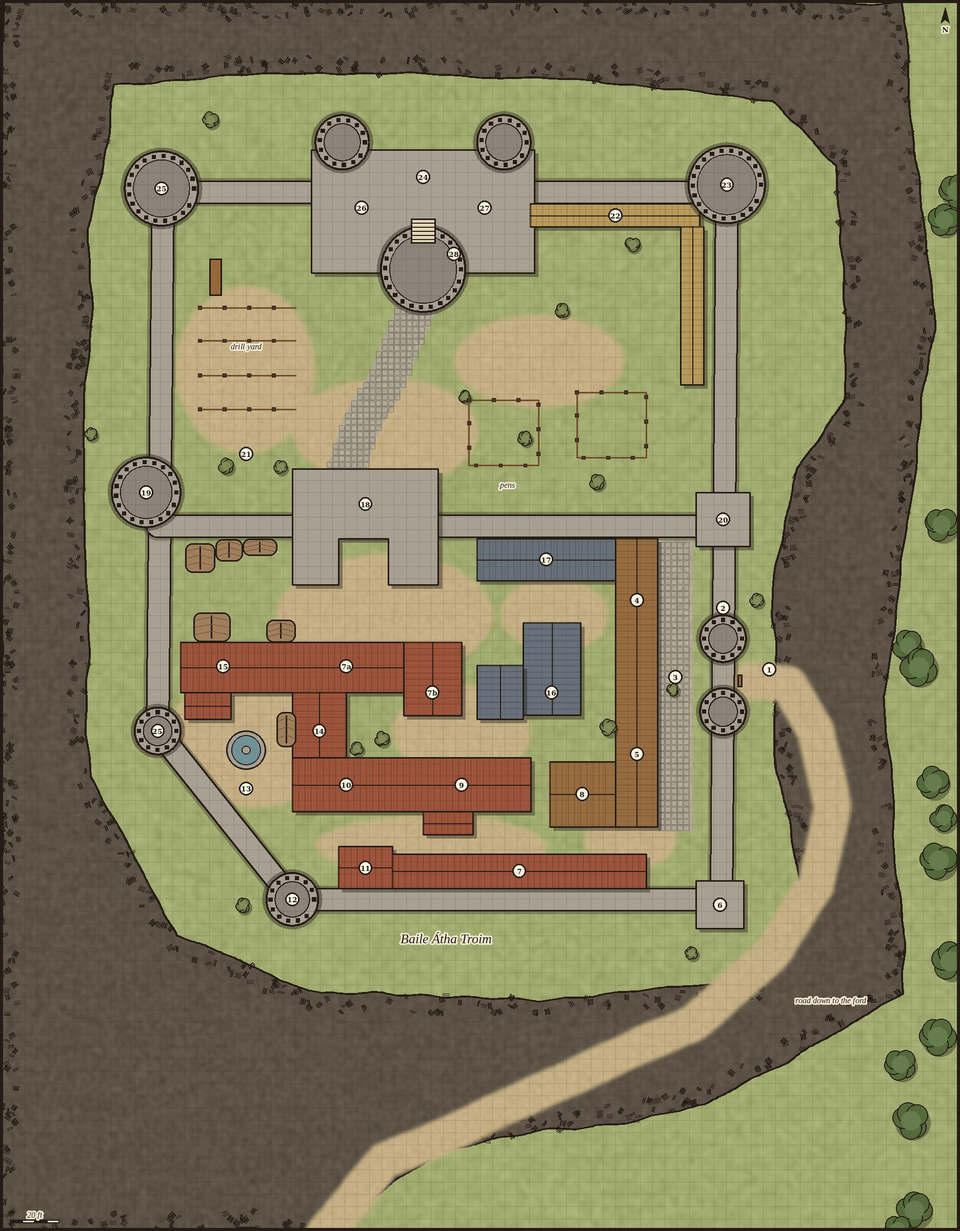
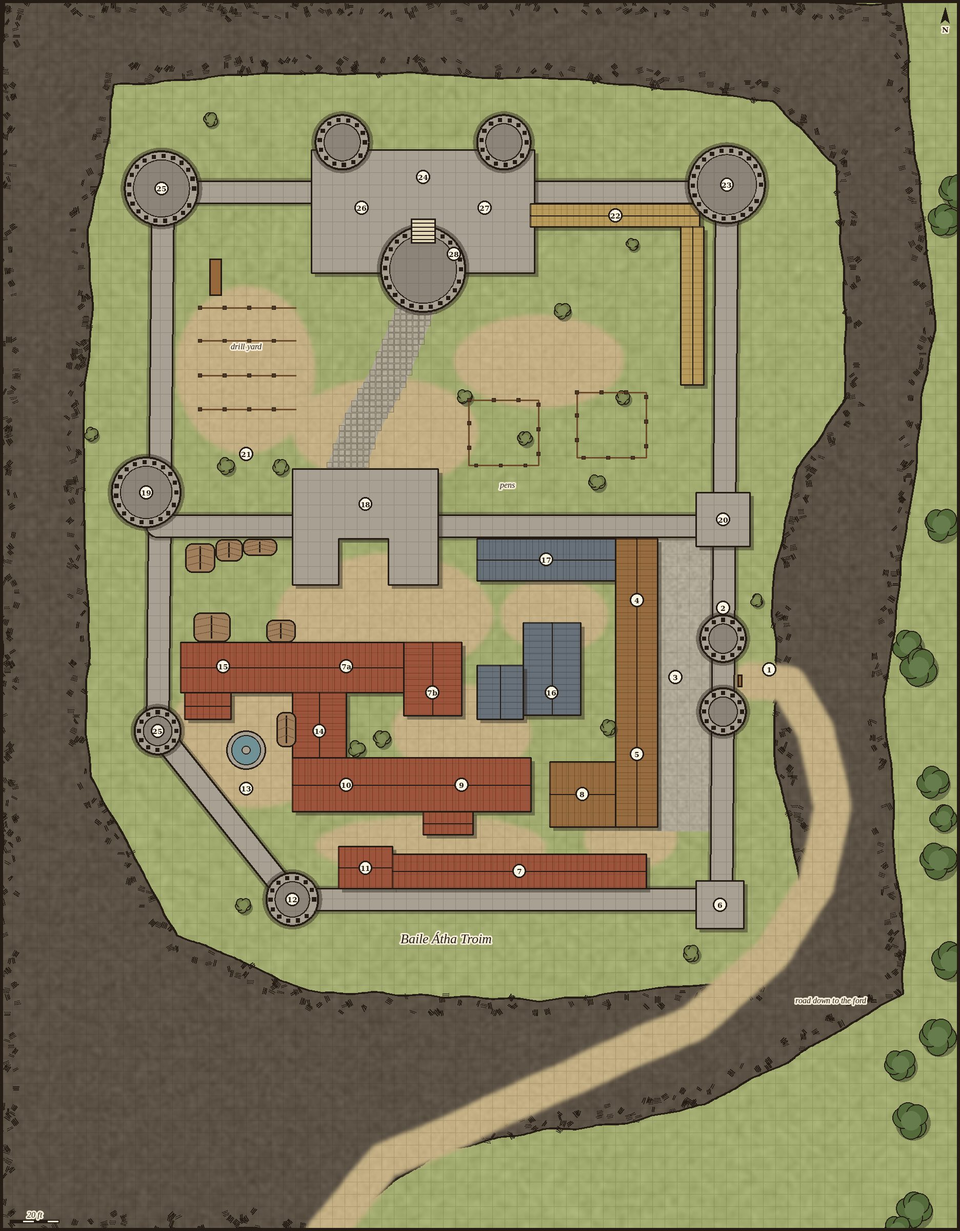
Pale Keep: entry lane (3) plain grey paving out to the east wall; no trees on paving
Claude-Session: https://claude.ai/code/session_01XfHWgpHtgLbquxK218mXG6

diff --git a/modules/tools/encounter_draw.py b/modules/tools/encounter_draw.py
@@ -317,7 +317,7 @@ def render(plan, rng):
         if not cob.is_empty:
             im.paste(texture(W, H, (176, 168, 150), rng, 12, 1), (0, 0), mask_of(cob, W, H, P))
             d = ImageDraw.Draw(im, 'RGBA')
-            for p_ in polys(cob):
+            for p_ in polys(union([c for c in plan['cobbles'] if not c.get('plain')])):
                 x0, y0, x1, y1 = p_.bounds
                 for yy in range(int(y0 * 2), int(y1 * 2) + 1):
                     for xx in range(int(x0 * 2), int(x1 * 2) + 1):
@@ -383,7 +383,7 @@ def render(plan, rng):
     im.paste(grid, (0, 0), Image.composite(grid, Image.new('RGBA', (W, H)), gmask))
     d = ImageDraw.Draw(im, 'RGBA')
     # trees and scrub, seeded, never on the floor, water or rock
-    block = unary_union([floor, water, union(plan.get('road', [])), union(plan.get('walls', [])), union(plan.get('buildings', [])), union(plan.get('towers', []))] + ([union(plan.get('rock', []))] if not cave else []))
+    block = unary_union([floor, water, union(plan.get('road', [])), union(plan.get('walls', [])), union(plan.get('buildings', [])), union(plan.get('towers', [])), union(plan.get('cobbles', []))] + ([union(plan.get('rock', []))] if not cave else []))
     for t in plan.get('trees', []):
         g = shape(t['in']).difference(block.buffer(t.get('r', 1) * .6))
         for x, y in sorted(scatter(g, t['n'], rng, t.get('r', 1) * 1.2), key=lambda p: p[1]):
